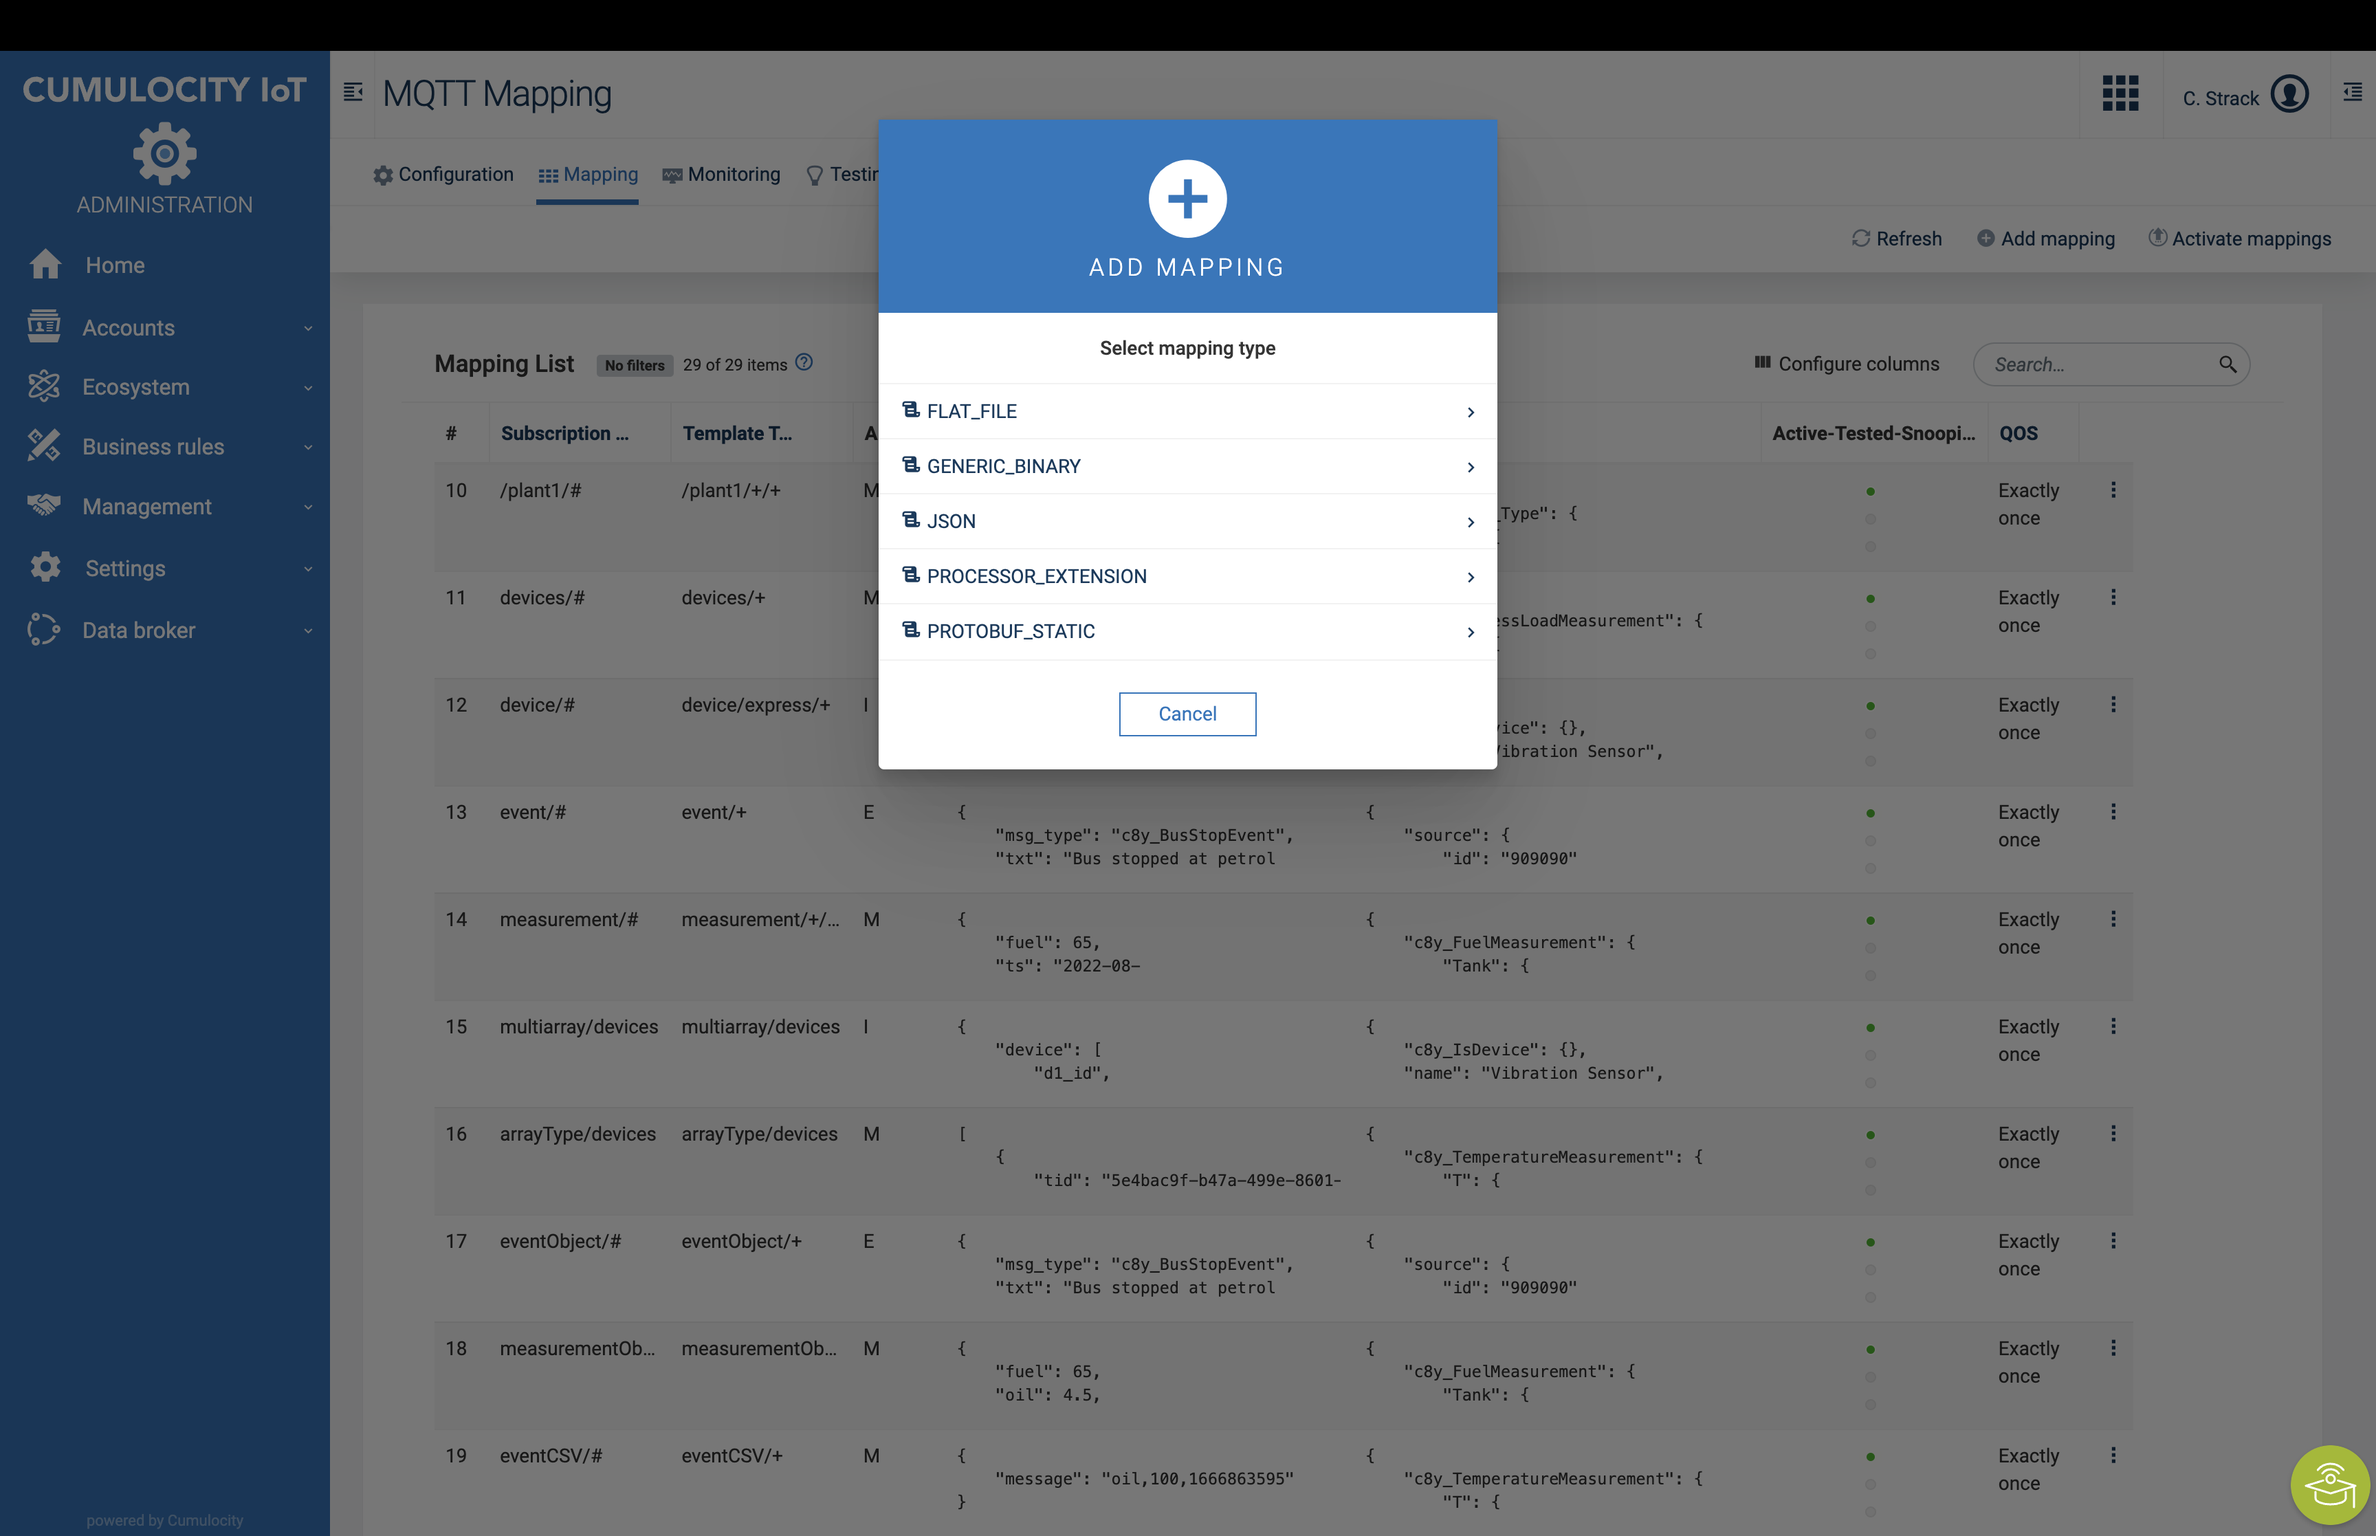
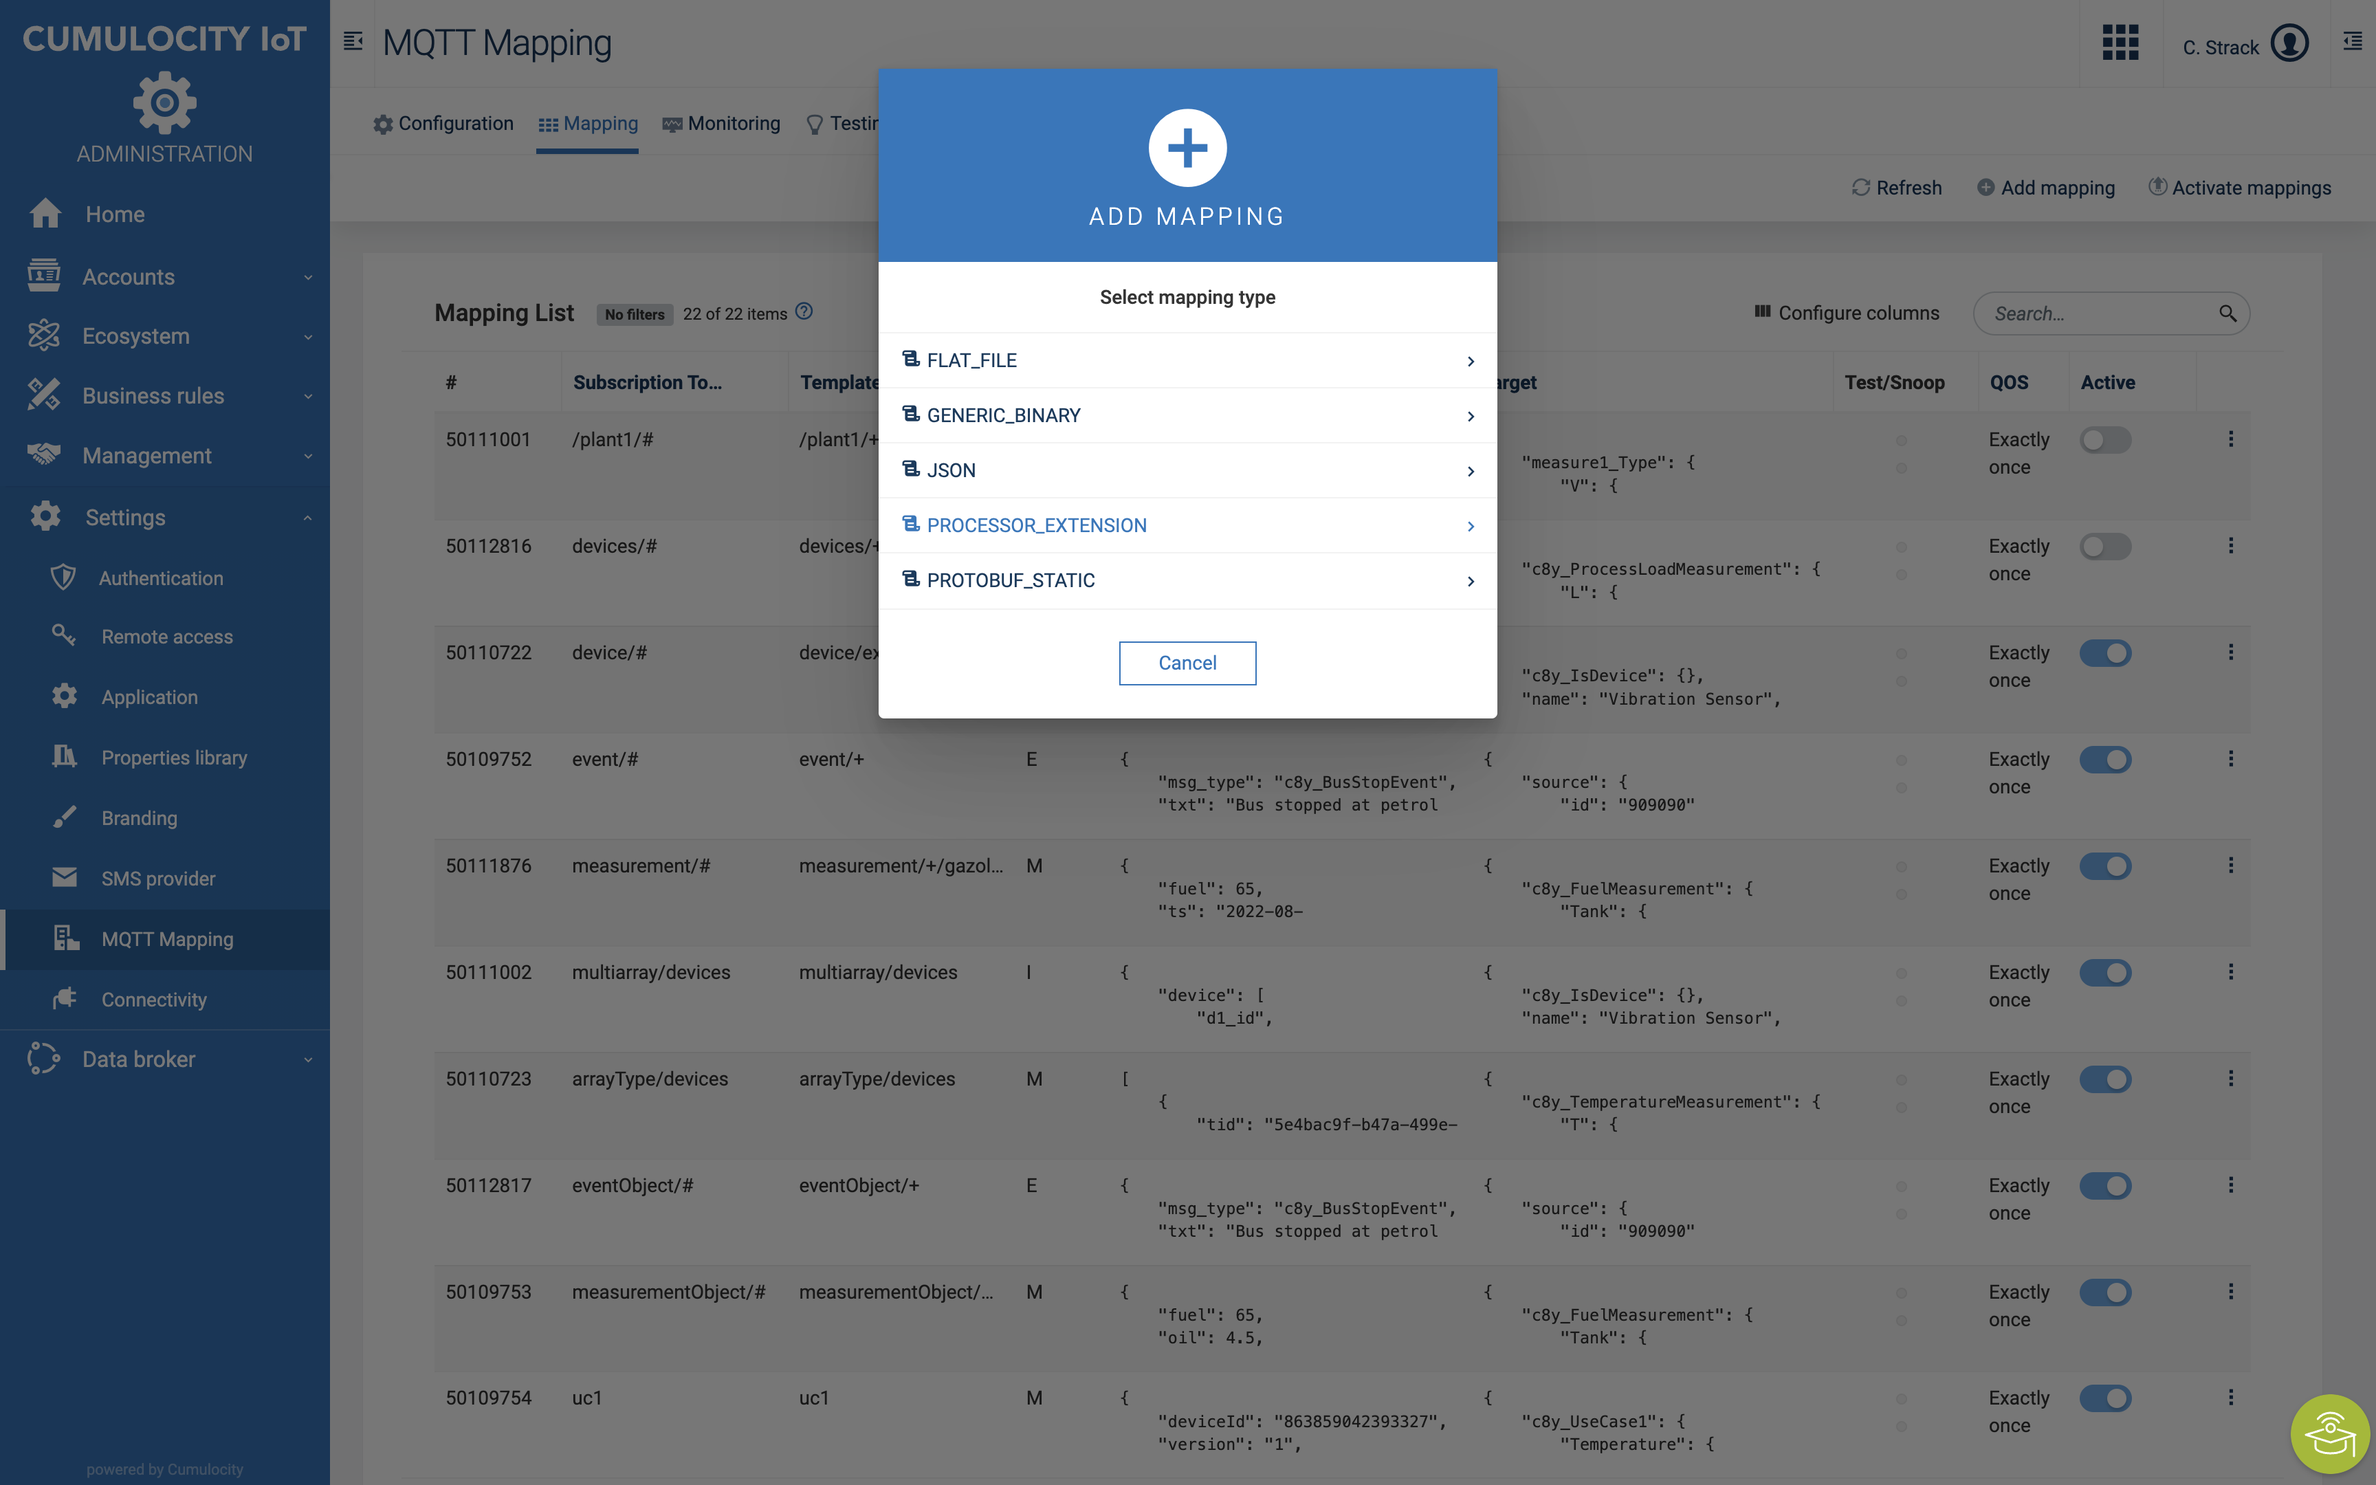
updated docu

diff --git a/README.md b/README.md
@@ -21,7 +21,8 @@
   * [Test transformation from source to target format](#test-transformation-from-source-to-target-format)
   * [Send transformed test message to test device in Cumulocity](#send-transformed-test-message-to-test-device-in-cumulocity)
   * [Use snooped payloads in source templates](#use-snooped-payloads-in-source-templates)
-- [Processing Extensions (Protobuf, ...)](#processing-extensions-protobuf)
+  * [Update existing Mapping](#update-existing-mapping)
+- [Processing Extensions (Protobuf, ...)](#processing-extensions)
 - [Monitoring](#monitoring)
 - [Mapping Tree](#mapping-tree)
 - [REST API](#rest-api)
@@ -447,6 +448,18 @@ In order to use a previously snooped payload click the button
 <img src="resources/image/Generic_MQTT_UseSnoopedPayload.png"  style="display: block;margin-left: auto; margin-right: auto; width: 70%;" />
 <br/>
 
+### Update existing Mapping
+
+To avoid inconsistencies when updating the properties of a mapping, active mapping are locked - ```READ_ONLY``` - and can't be updated. All properties of the mapping are protected from changes.
+This can be seen on the follwing screenshot:
+
+<img src="resources/image/Generic_MQTT_TopicDefinition_ReadOnly.png"  style="display: block;margin-left: auto; margin-right: auto; width: 70%;" />
+<br/>
+
+To allow updating an activated mapping it has to be deactivated in the list of all mapping, please refer to the following screenshot:
+
+<img src="resources/image/Generic_MQTT_MappingTable_annotated.png"  style="display: block;margin-left: auto; margin-right: auto; width: 70%;" />
+<br/>
 
 ### Processing Extensions
 
